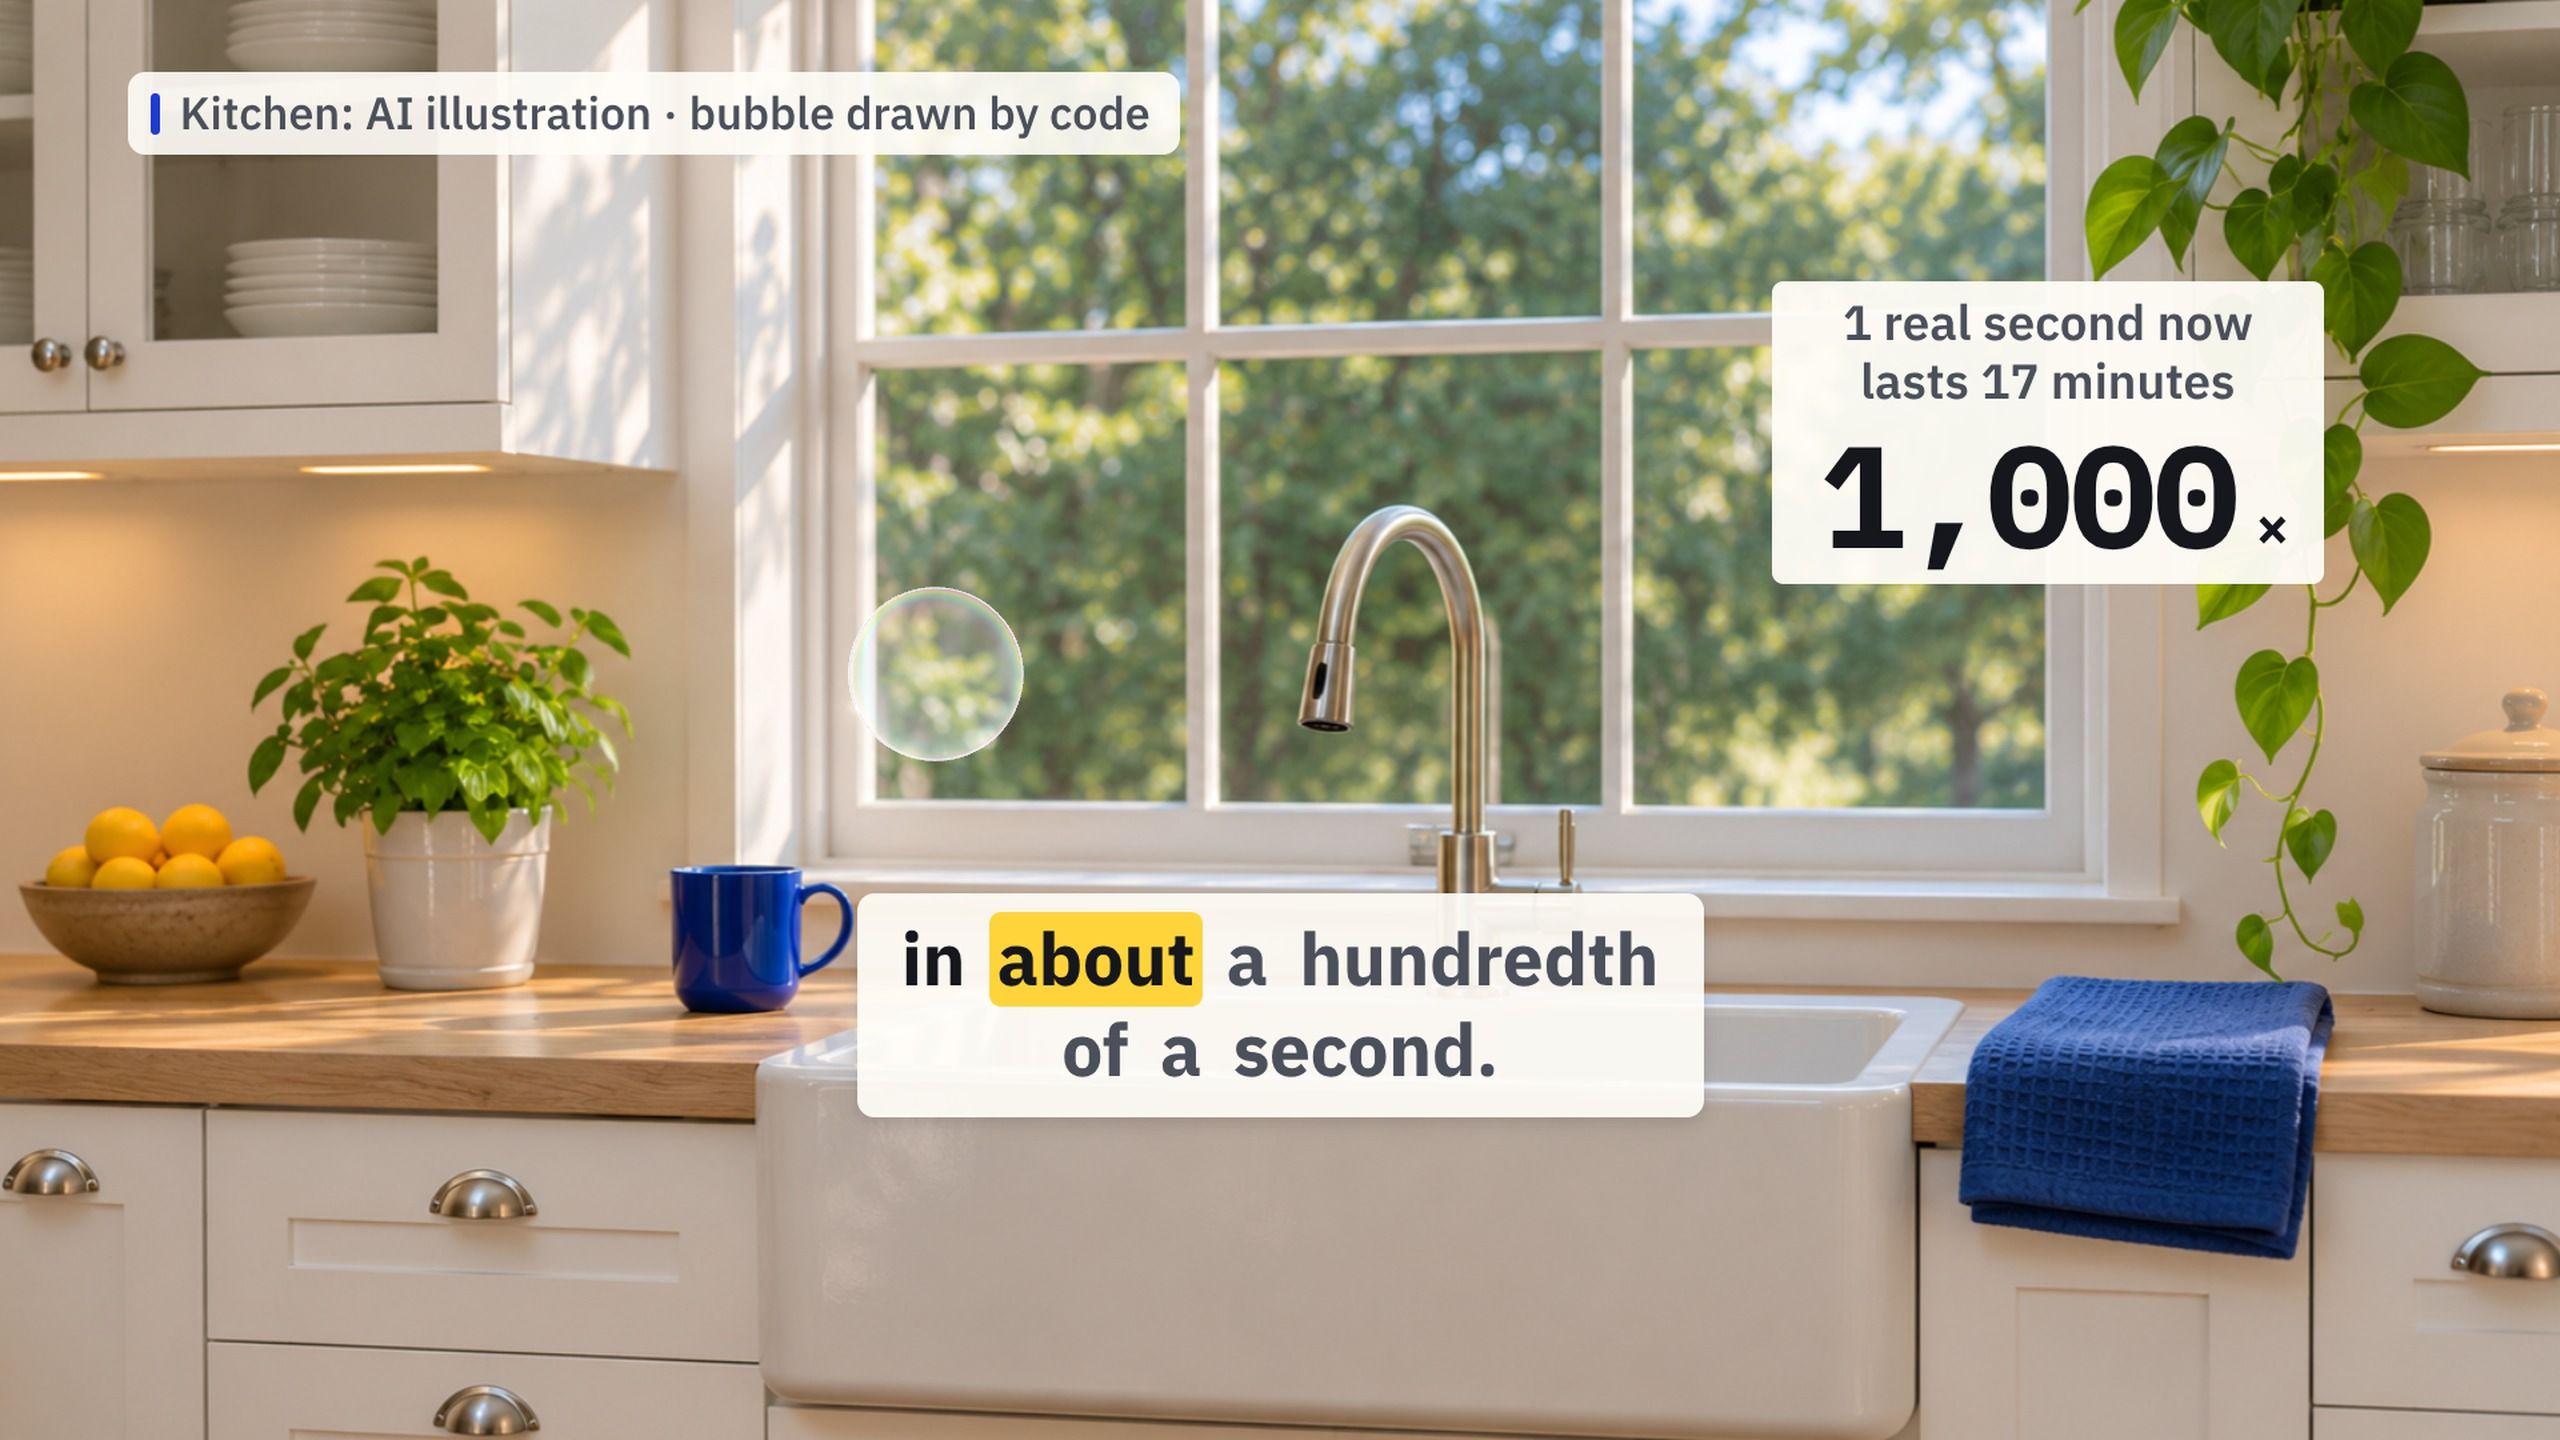
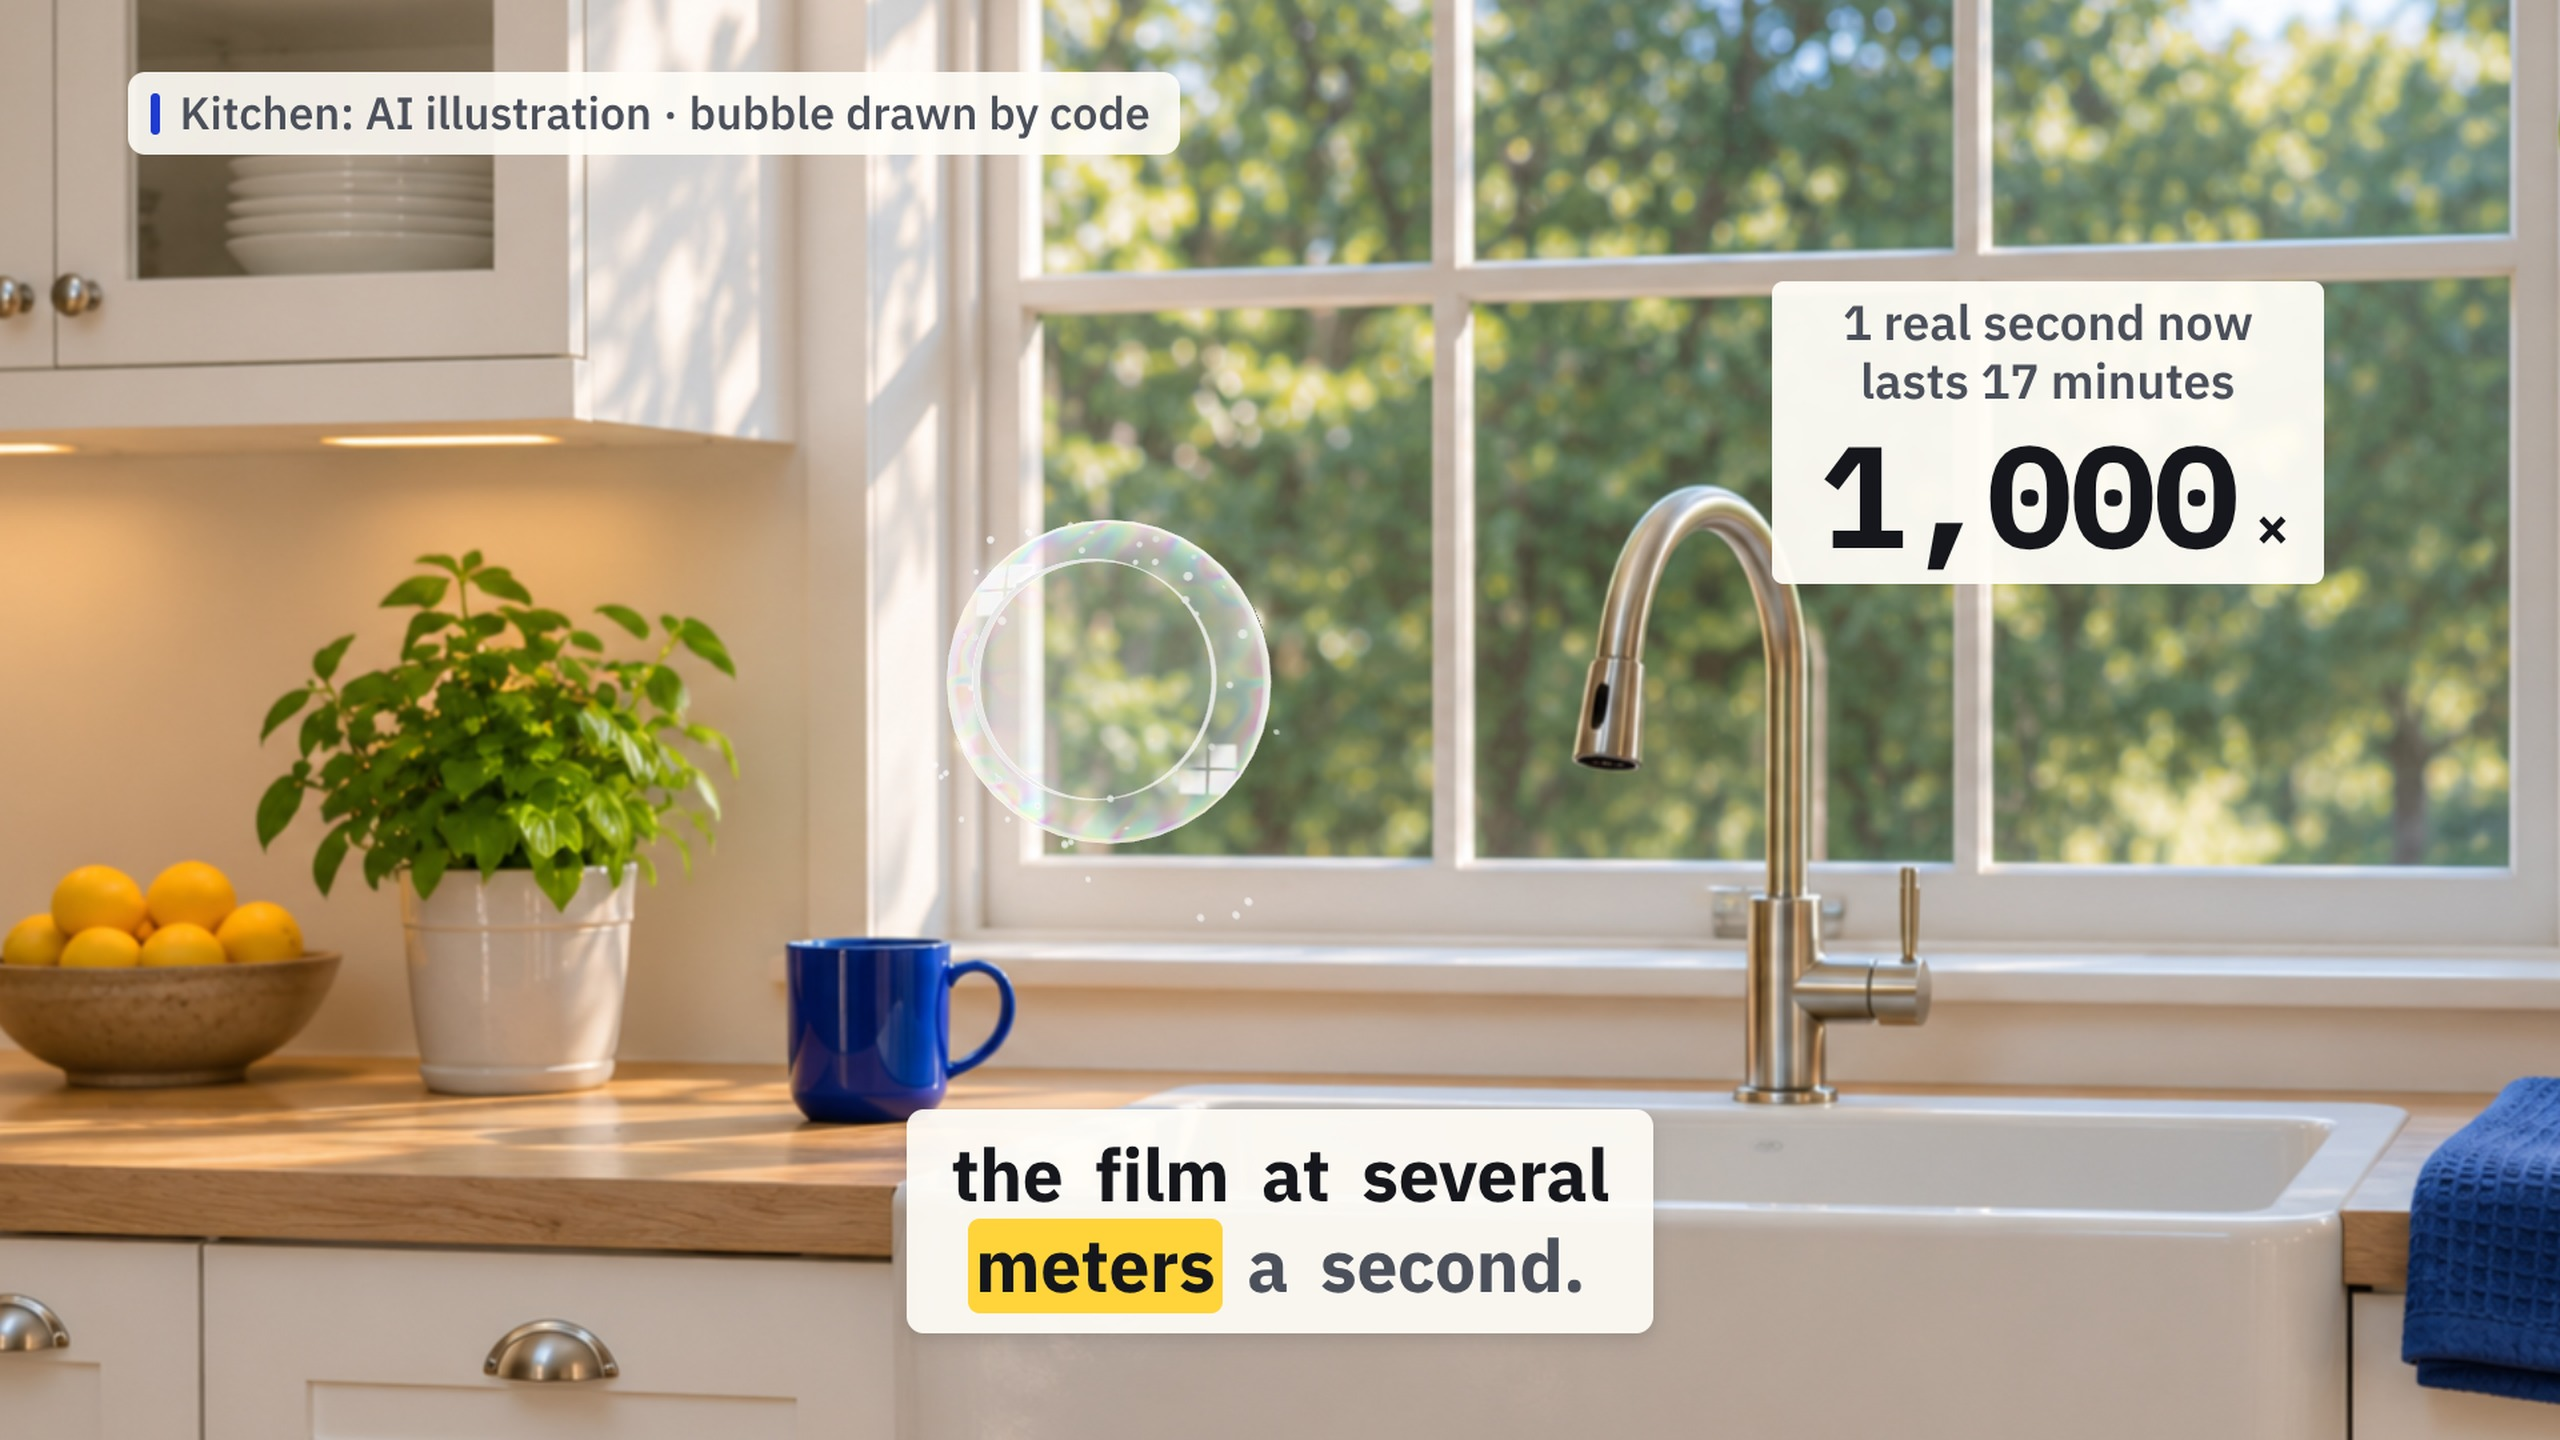
Plate-05 bubble v2: push-in, thin-film bands, window pane reflection, bright tear lip with mist
Claude-Session: https://claude.ai/code/session_0192s8Y3nHgGCCsvNARxNLPn

diff --git a/films/channels/physics/lf01/build.py b/films/channels/physics/lf01/build.py
@@ -272,9 +272,10 @@ _p03 = {"id": "tapmug", "file": PLATE03, "file9": PLATE03, "push": 0.04, "parall
         "anchor": {"rig": {"pos": [round((863 - 836) / _PZ, 4), round(0.4 + (470.5 - 594) / _PZ, 4), _Z3], "scale": round(5240 / _PZ, 4), "rotX": 0.227, "tipY": round((594 - 368) / 5240, 4), "drop": 0.85, "rad": 0.62}}}   # the crown stands on the mug's water at the drop's x
 # plate-05: the farmhouse sink under the window (Part 3's soap bubble). The bubble (0.025 code-m of radius) is drawn 55 px in radius, 2200 px per code-metre, in the air left of the tap
 PLATE05 = "../lf01/art/owner/plates/plate-05-sink-16x9.png"
-_p05 = {"id": "sink", "file": PLATE05, "file9": PLATE05, "push": 0.04, "parallax": 0, "fade": 0.3, "shift9": {"x": round((640 - 836) / _PX, 4), "ppm": _PX},
+_p05 = {"id": "sink", "file": PLATE05, "file9": PLATE05, "push": 0.5, "parallax": 0, "fade": 0.3,
+        "shift": {"x": round((600 - 836) / _PX, 4), "y": round((470.5 - 440) / _PX, 4), "ppm": _PX}, "shift9": {"x": round((600 - 836) / _PX, 4), "y": round((470.5 - 440) / _PX, 4), "ppm": _PX},   # push in on the bubble: it fills about a quarter of the frame at the tear
         "cam3": {"pos": [0, 0.4, 0], "target": [0, 0.396, -1], "fov": 29.5},
-        "anchor": {"rig": {"kind": "bubble", "pos": [round((600 - 836) / _PX, 4), round(0.4 + (470.5 - 440) / _PX, 4), -1.0], "scale": round(2200 / _PX, 4), "rotX": 0}}}
+        "anchor": {"rig": {"kind": "bubble", "pos": [round((600 - 836) / _PX, 4), round(0.4 + (470.5 - 440) / _PX, 4), -1.0], "scale": round(3300 / _PX, 4), "rotX": 0}}}
 # plate-06: one red apple on the oak counter (Part 5). Its picture is projected onto an apple-shaped proxy mesh (pixel-identical before impact); the apple is 334 px wide, so 4175 px per code-metre
 PLATE06 = "../lf01/art/owner/plates/plate-06-apple-16x9.png"
 _p06 = {"id": "applep", "file": PLATE06, "file9": PLATE06, "push": 0.04, "parallax": 0, "fade": 0.3, "shift9": {"x": round((1085 - 836) / _PX, 4), "ppm": _PX},
